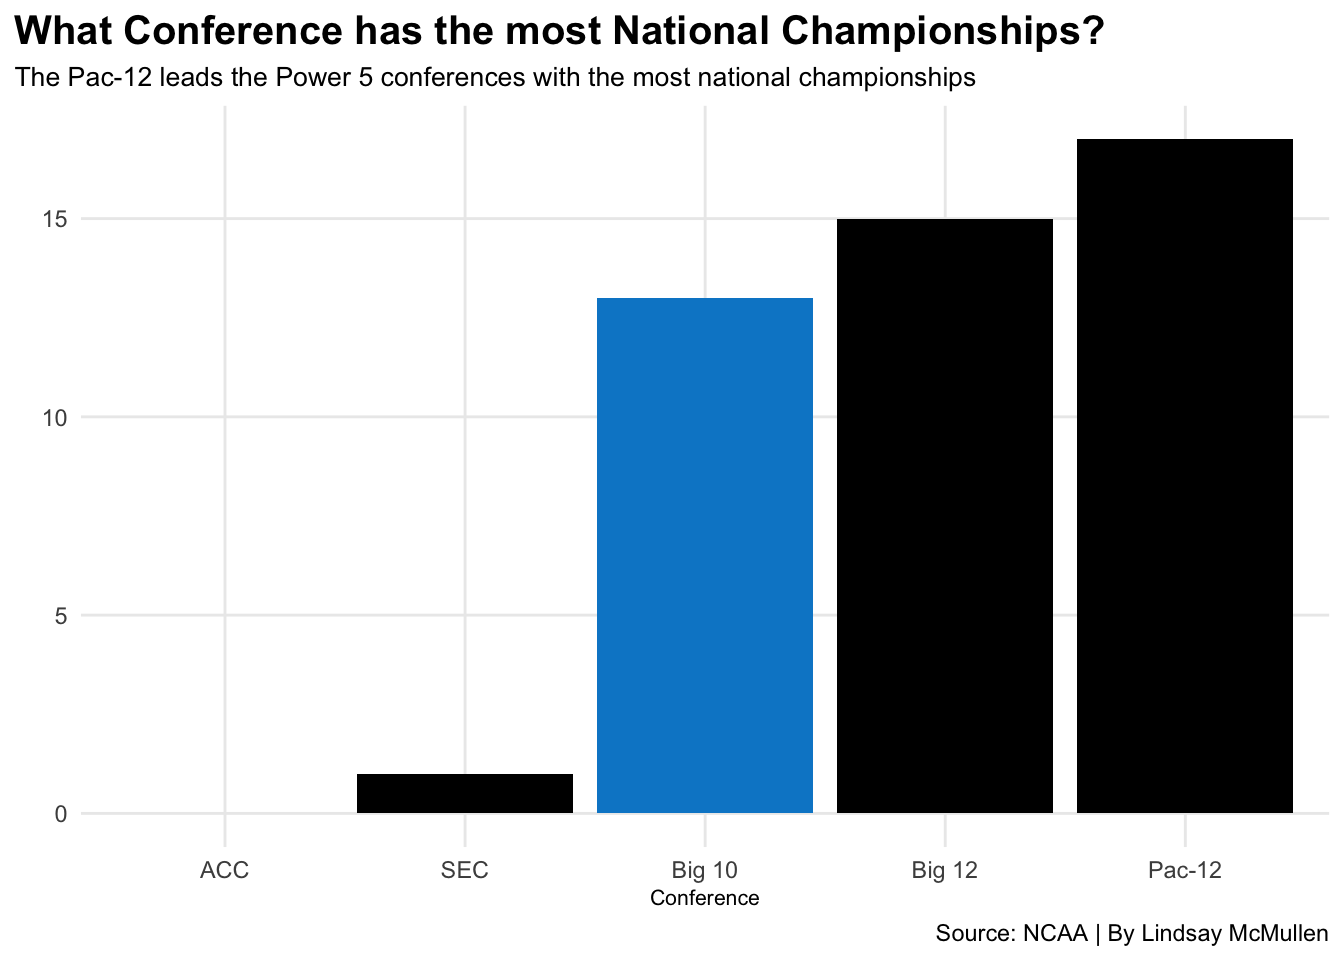
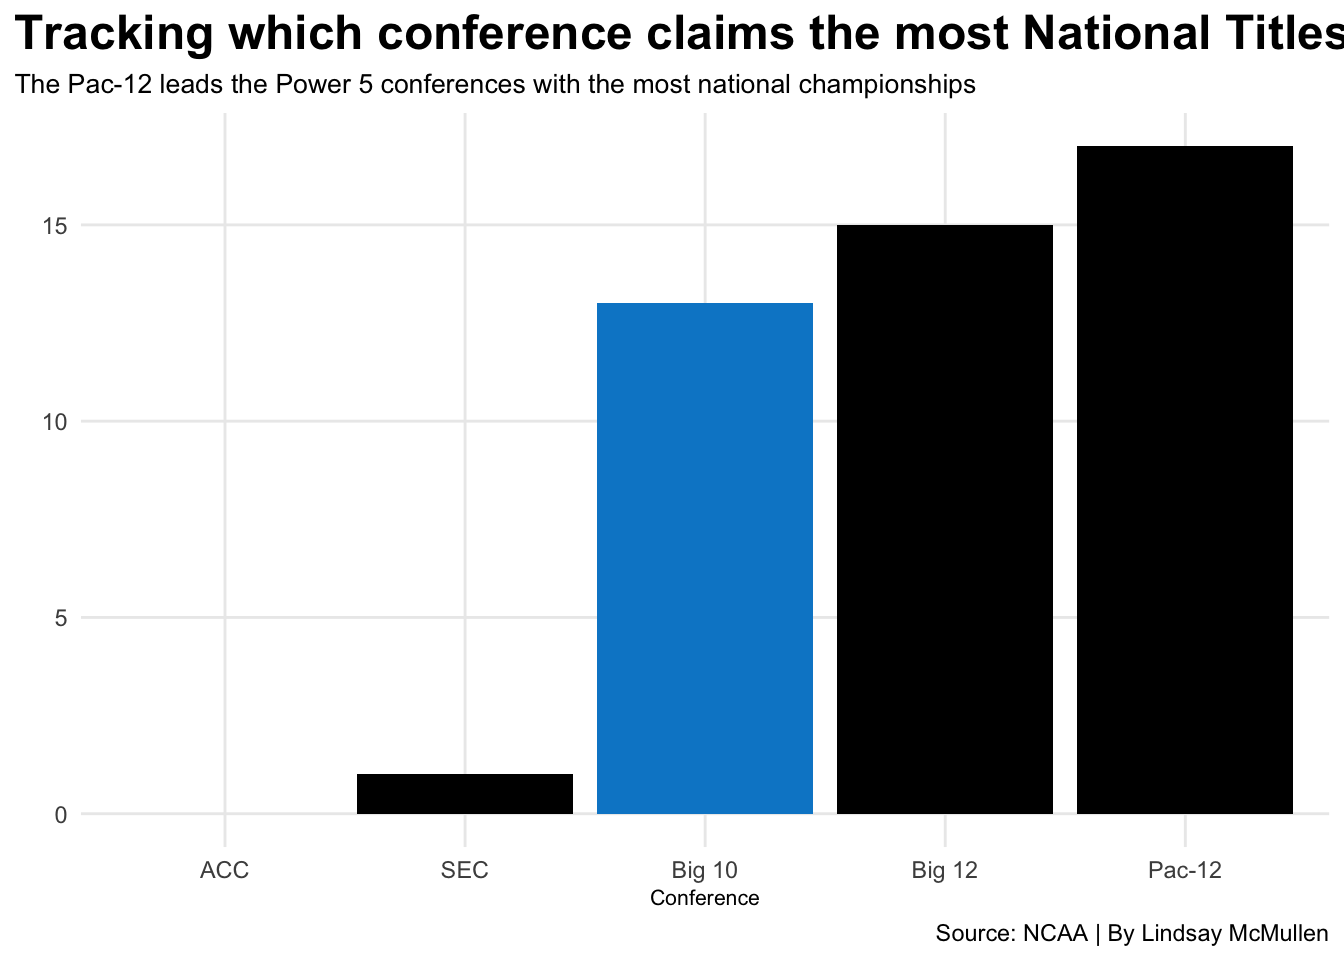
draft 6

diff --git a/posts/who-is-the-true-volleyball-conference/index.html b/posts/who-is-the-true-volleyball-conference/index.html
@@ -279,15 +279,15 @@ pre > code.sourceCode > span > a:first-child::before { text-decoration: underlin
 <span id="cb2-13"><a href="#cb2-13" aria-hidden="true" tabindex="-1"></a>    <span class="st">"#FBCE28"</span> <span class="co"># SEC </span></span>
 <span id="cb2-14"><a href="#cb2-14" aria-hidden="true" tabindex="-1"></a>    )) <span class="sc">+</span> </span>
 <span id="cb2-15"><a href="#cb2-15" aria-hidden="true" tabindex="-1"></a>  <span class="fu">labs</span>(</span>
-<span id="cb2-16"><a href="#cb2-16" aria-hidden="true" tabindex="-1"></a>    <span class="at">title=</span><span class="st">"Power 5 Conference realignment over the past 5 years"</span>, </span>
-<span id="cb2-17"><a href="#cb2-17" aria-hidden="true" tabindex="-1"></a>    <span class="at">subtitle=</span><span class="st">"The power 5 has seen a shift in conference alignment and removal of the Pac-12 "</span>, </span>
+<span id="cb2-16"><a href="#cb2-16" aria-hidden="true" tabindex="-1"></a>    <span class="at">title=</span><span class="st">"Power 5 realignment shifts everything"</span>, </span>
+<span id="cb2-17"><a href="#cb2-17" aria-hidden="true" tabindex="-1"></a>    <span class="at">subtitle=</span><span class="st">"The power 5 has seen a shift in conference alignment and removal of the Pac-12. "</span>, </span>
 <span id="cb2-18"><a href="#cb2-18" aria-hidden="true" tabindex="-1"></a>    <span class="at">y=</span> <span class="st">""</span>, </span>
 <span id="cb2-19"><a href="#cb2-19" aria-hidden="true" tabindex="-1"></a>    <span class="at">x =</span> <span class="st">"Season"</span>,</span>
 <span id="cb2-20"><a href="#cb2-20" aria-hidden="true" tabindex="-1"></a>    <span class="at">caption =</span> <span class="st">"Source: NCAA | By Lindsay McMullen"</span>, </span>
 <span id="cb2-21"><a href="#cb2-21" aria-hidden="true" tabindex="-1"></a>    <span class="at">color=</span><span class="st">"Conference"</span>) <span class="sc">+</span></span>
 <span id="cb2-22"><a href="#cb2-22" aria-hidden="true" tabindex="-1"></a>  <span class="fu">theme_minimal</span>() <span class="sc">+</span></span>
 <span id="cb2-23"><a href="#cb2-23" aria-hidden="true" tabindex="-1"></a>  <span class="fu">theme</span>(</span>
-<span id="cb2-24"><a href="#cb2-24" aria-hidden="true" tabindex="-1"></a>    <span class="at">plot.title =</span> <span class="fu">element_text</span>(<span class="at">size =</span> <span class="dv">15</span>, <span class="at">face =</span> <span class="st">"bold"</span>),</span>
+<span id="cb2-24"><a href="#cb2-24" aria-hidden="true" tabindex="-1"></a>    <span class="at">plot.title =</span> <span class="fu">element_text</span>(<span class="at">size =</span> <span class="dv">18</span>, <span class="at">face =</span> <span class="st">"bold"</span>),</span>
 <span id="cb2-25"><a href="#cb2-25" aria-hidden="true" tabindex="-1"></a>    <span class="at">axis.title =</span> <span class="fu">element_text</span>(<span class="at">size =</span> <span class="dv">8</span>), </span>
 <span id="cb2-26"><a href="#cb2-26" aria-hidden="true" tabindex="-1"></a>    <span class="at">plot.subtitle =</span> <span class="fu">element_text</span>(<span class="at">size=</span><span class="dv">10</span>), </span>
 <span id="cb2-27"><a href="#cb2-27" aria-hidden="true" tabindex="-1"></a>    <span class="at">panel.grid.minor =</span> <span class="fu">element_blank</span>(),</span>
@@ -315,7 +315,7 @@ pre > code.sourceCode > span > a:first-child::before { text-decoration: underlin
 <span id="cb3-7"><a href="#cb3-7" aria-hidden="true" tabindex="-1"></a>  <span class="fu">geom_bar</span>(<span class="at">data=</span>nc, <span class="fu">aes</span>(<span class="at">x=</span><span class="fu">reorder</span>(Conference, Total), <span class="at">weight=</span> Total) , <span class="at">fill =</span> <span class="st">"black"</span>) <span class="sc">+</span> </span>
 <span id="cb3-8"><a href="#cb3-8" aria-hidden="true" tabindex="-1"></a>  <span class="fu">geom_bar</span>(<span class="at">data=</span>Big10, <span class="fu">aes</span>(<span class="at">x=</span><span class="fu">reorder</span>(Conference, Total), <span class="at">weight=</span> Total), <span class="at">fill =</span> <span class="st">"#0088CE"</span>) <span class="sc">+</span></span>
 <span id="cb3-9"><a href="#cb3-9" aria-hidden="true" tabindex="-1"></a>  <span class="fu">labs</span>(</span>
-<span id="cb3-10"><a href="#cb3-10" aria-hidden="true" tabindex="-1"></a>    <span class="at">title=</span><span class="st">"What Conference has the most National Championships? "</span>, </span>
+<span id="cb3-10"><a href="#cb3-10" aria-hidden="true" tabindex="-1"></a>    <span class="at">title=</span><span class="st">"Tracking which conference claims the most National Titles "</span>, </span>
 <span id="cb3-11"><a href="#cb3-11" aria-hidden="true" tabindex="-1"></a>    <span class="at">subtitle=</span><span class="st">"The Pac-12 leads the Power 5 conferences with the most national championships"</span>, </span>
 <span id="cb3-12"><a href="#cb3-12" aria-hidden="true" tabindex="-1"></a>    <span class="at">y=</span> <span class="st">""</span>, </span>
 <span id="cb3-13"><a href="#cb3-13" aria-hidden="true" tabindex="-1"></a>    <span class="at">x =</span> <span class="st">"Conference"</span>,</span>
@@ -323,7 +323,7 @@ pre > code.sourceCode > span > a:first-child::before { text-decoration: underlin
 <span id="cb3-15"><a href="#cb3-15" aria-hidden="true" tabindex="-1"></a>    <span class="at">color=</span><span class="st">"Conference"</span>) <span class="sc">+</span></span>
 <span id="cb3-16"><a href="#cb3-16" aria-hidden="true" tabindex="-1"></a>  <span class="fu">theme_minimal</span>() <span class="sc">+</span></span>
 <span id="cb3-17"><a href="#cb3-17" aria-hidden="true" tabindex="-1"></a>  <span class="fu">theme</span>(</span>
-<span id="cb3-18"><a href="#cb3-18" aria-hidden="true" tabindex="-1"></a>    <span class="at">plot.title =</span> <span class="fu">element_text</span>(<span class="at">size =</span> <span class="dv">15</span>, <span class="at">face =</span> <span class="st">"bold"</span>),</span>
+<span id="cb3-18"><a href="#cb3-18" aria-hidden="true" tabindex="-1"></a>    <span class="at">plot.title =</span> <span class="fu">element_text</span>(<span class="at">size =</span> <span class="dv">18</span>, <span class="at">face =</span> <span class="st">"bold"</span>),</span>
 <span id="cb3-19"><a href="#cb3-19" aria-hidden="true" tabindex="-1"></a>    <span class="at">axis.title =</span> <span class="fu">element_text</span>(<span class="at">size =</span> <span class="dv">8</span>), </span>
 <span id="cb3-20"><a href="#cb3-20" aria-hidden="true" tabindex="-1"></a>    <span class="at">plot.subtitle =</span> <span class="fu">element_text</span>(<span class="at">size=</span><span class="dv">10</span>), </span>
 <span id="cb3-21"><a href="#cb3-21" aria-hidden="true" tabindex="-1"></a>    <span class="at">panel.grid.minor =</span> <span class="fu">element_blank</span>(),</span>

diff --git a/index.html b/index.html
@@ -209,7 +209,7 @@ window.Quarto = {
 
 <div class="quarto-listing quarto-listing-container-default" id="listing-listing">
 <div class="list quarto-listing-default">
[2 lines of base64/hex data omitted]
 <div class="thumbnail"><a href="./posts/who-is-the-true-volleyball-conference/index.html" class="no-external">
 
 <img loading="lazy" src="./posts/who-is-the-true-volleyball-conference/image.png" class="thumbnail-image">
